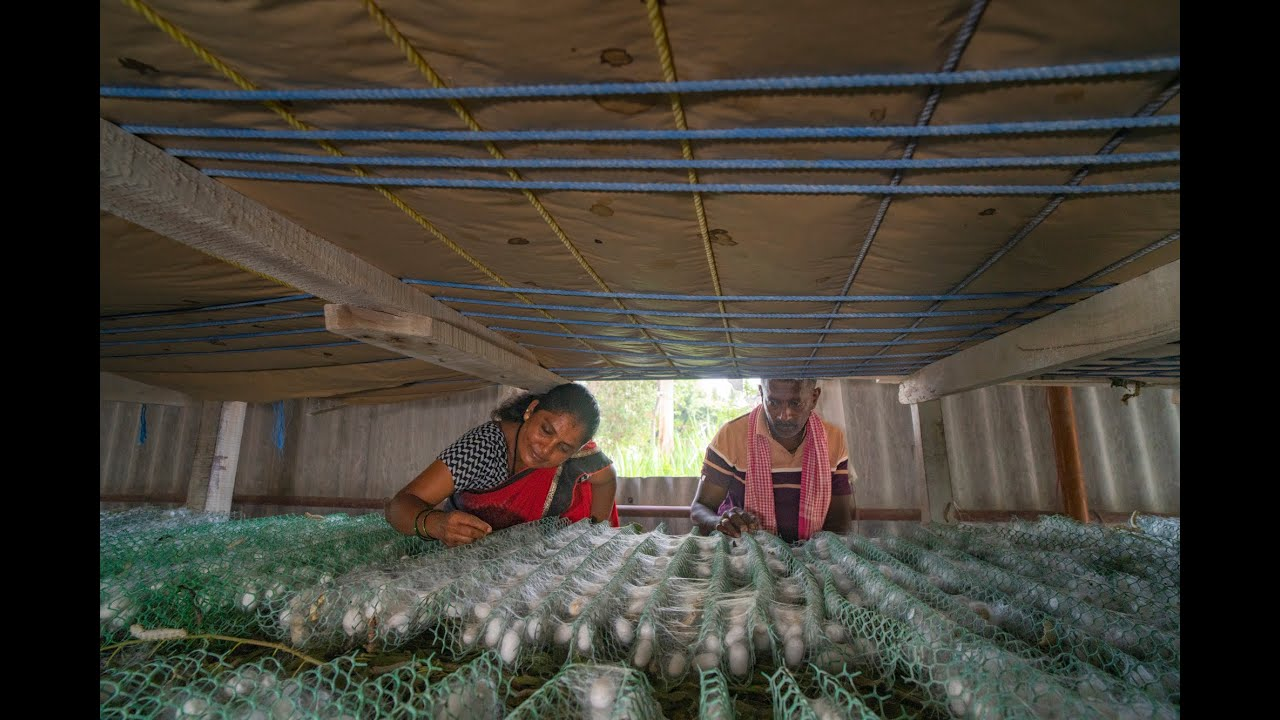
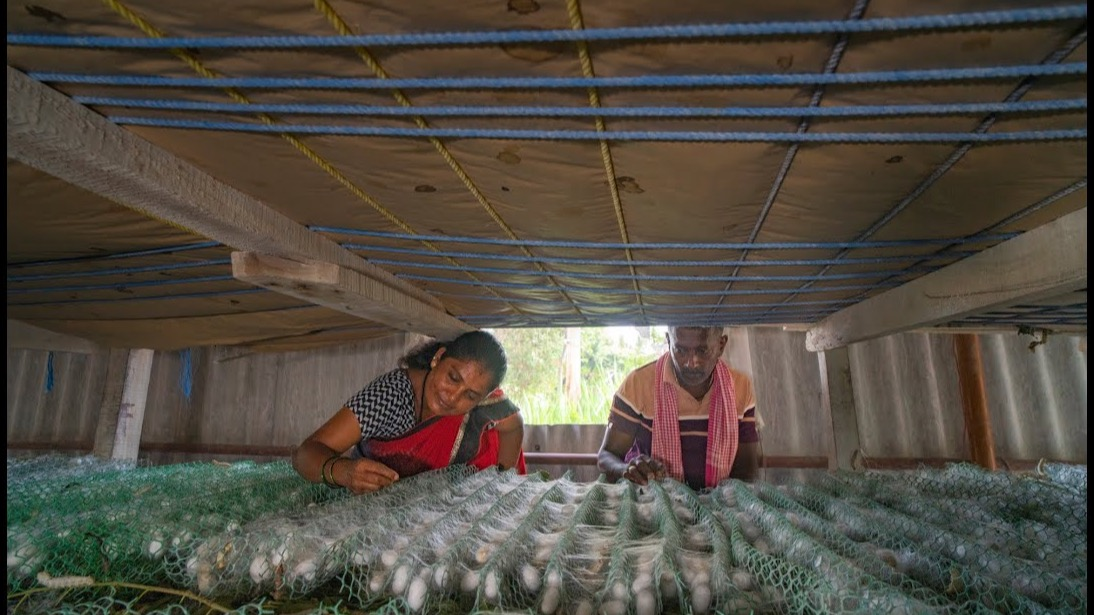
Polish: fix thumbnail face-cropping and hero/typography details
- Bias work-card thumbnail crop upward (object-position) so faces in
  portrait-orientation photos are no longer sliced off
- Balance hero headline wrapping; remove hard line breaks that left an
  orphaned word
- Crop pillarbox bars from the Soil to Silk film thumbnail
- Slightly reduce hero kicker size on small screens

diff --git a/styles.css b/styles.css
@@ -230,6 +230,7 @@ ol, ul { list-style: none; padding: 0; }
   font-size: clamp(2.5rem, 6.6vw, 5.2rem);
   line-height: 0.99; letter-spacing: -0.025em;
   margin: 26px 0 30px;
+  text-wrap: balance;
 }
 .rotator { display: inline-block; position: relative; color: var(--terra); font-style: italic; }
 .rotator__word { display: inline-block; }
@@ -361,7 +362,7 @@ ol, ul { list-style: none; padding: 0; }
   position: relative; overflow: hidden; border-radius: var(--radius);
   border: 1px solid var(--line); aspect-ratio: 3 / 2; background: var(--paper-2);
 }
-.card__media img { width: 100%; height: 100%; object-fit: cover; transition: transform 0.7s var(--ease), filter 0.5s; }
+.card__media img { width: 100%; height: 100%; object-fit: cover; object-position: center 22%; transition: transform 0.7s var(--ease), filter 0.5s; }
 .card__link:hover .card__media img { transform: scale(1.06); }
 .card__num {
   position: absolute; top: 10px; left: 10px; z-index: 2;
@@ -502,6 +503,7 @@ ol, ul { list-style: none; padding: 0; }
 }
 @media (max-width: 540px) {
   body { font-size: 16px; }
+  .kicker { font-size: 11px; letter-spacing: 0.12em; gap: 9px; }
   .beats__grid { grid-template-columns: 1fr; }
   .stats__grid { grid-template-columns: 1fr 1fr; }
   .controls__row { flex-direction: column; align-items: stretch; }

diff --git a/index.html b/index.html
@@ -60,7 +60,7 @@
         <div class="hero__text">
           <p class="kicker reveal">Strategic Communications <span class="kicker__dot">✧</span> Social Impact</p>
           <h1 class="hero__head reveal">
-            Complex social issues,<br />turned into stories that<br />move people to
+            Complex social issues, turned into stories that move people to
             <span class="rotator" aria-hidden="true"><span class="rotator__word">act</span></span>
             <span class="visually-hidden">act.</span>
           </h1>